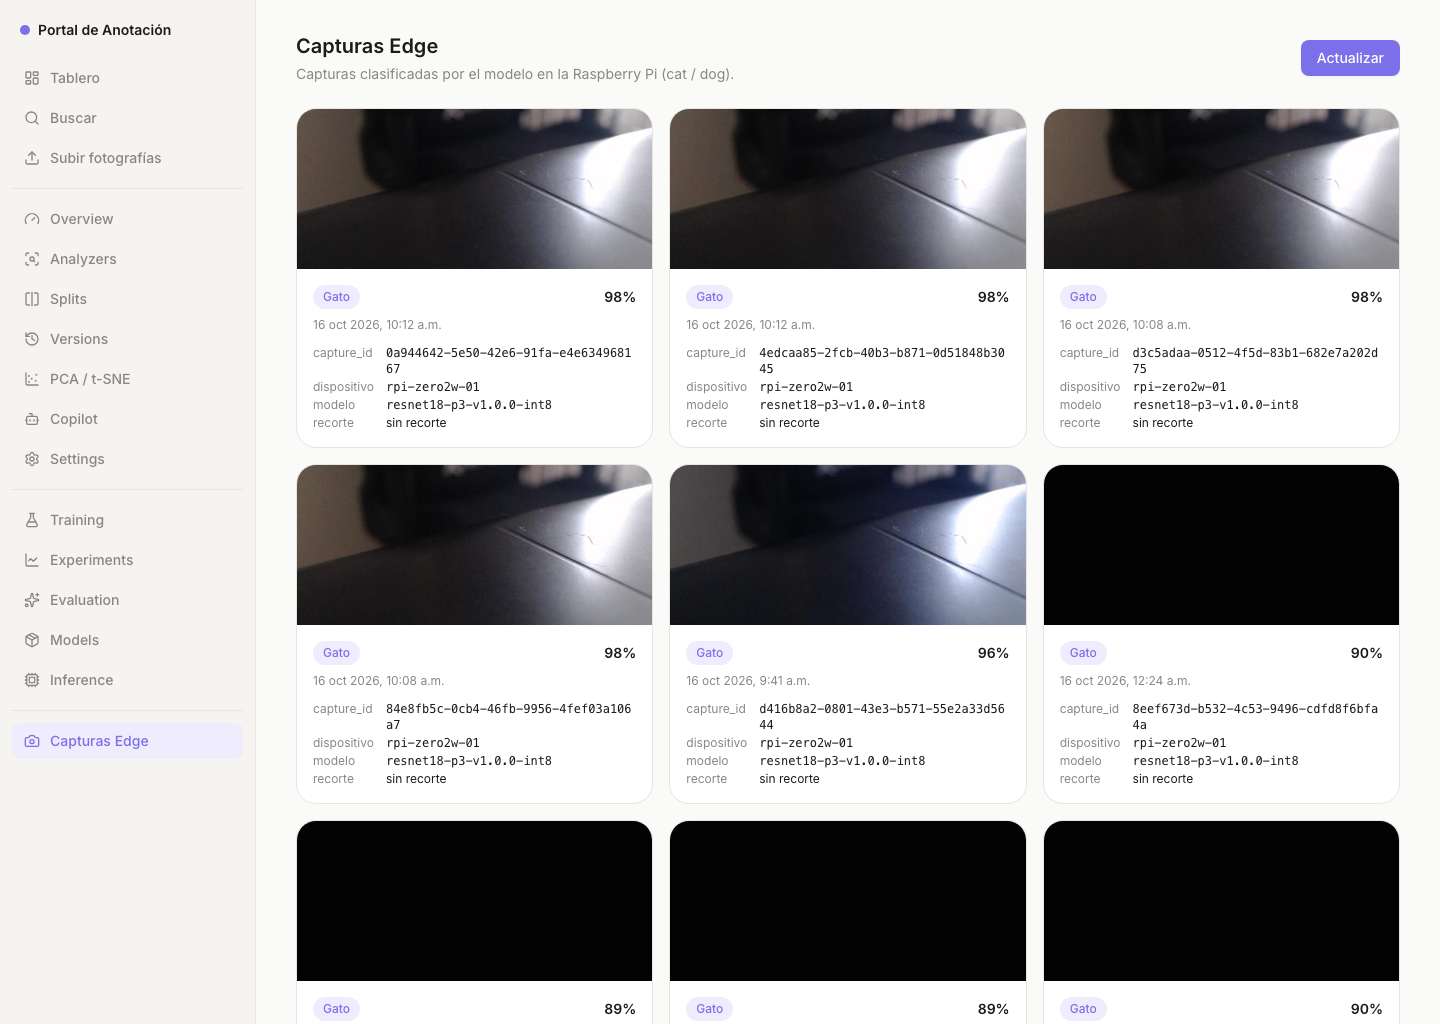
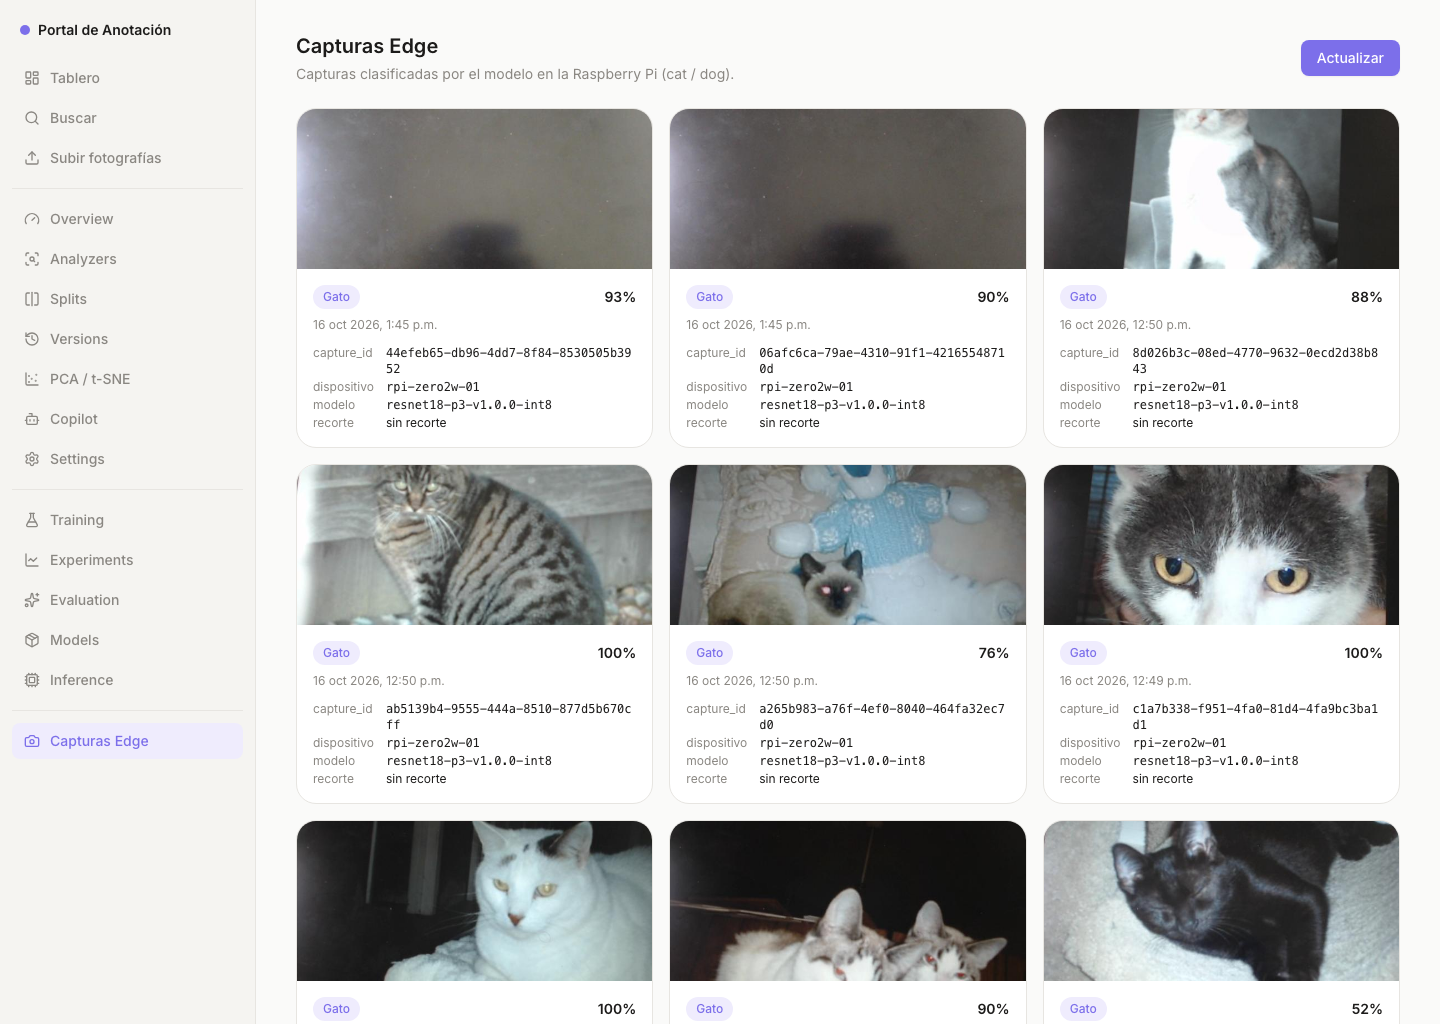
P4-15: cruce del portal con la evidencia oficial de AWS
Rehace la verificacion con la captura oficial 8d026b3c (reinicio): portal, GET /captures y evidencias/aws/eventos.json coinciden campo por campo. Capturas de pantalla nuevas y sin la captura obsoleta.

diff --git a/docs/p4/capturas-api-real.md b/docs/p4/capturas-api-real.md
@@ -5,31 +5,36 @@
 
 ## Cómo quedó conectada
 
-La sección «Capturas Edge» (PR #38) ya leía la URL desde `VITE_CAPTURES_API_URL`; el despliegue de AWS (infra #18, PR #36/#44) compila el frontend con:
+La sección «Capturas Edge» (PR #38) lee la URL desde `VITE_CAPTURES_API_URL`; el despliegue de AWS (infra #18, PR #36/#44) compila el frontend con:
 
 ```text
 VITE_CAPTURES_API_URL = https://el1c2mr69k.execute-api.us-east-2.amazonaws.com
 ```
 
-Ese valor queda inlinado en el bundle desplegado (`grep` del `index-*.js` lo confirma, y **no** contiene `sample.json`: en producción nunca hay datos de ejemplo). El CORS de `GET /captures` incluye el origen del portal (`http://3.133.248.228`).
+Ese valor queda inlinado en el bundle desplegado (el `grep` del `index-*.js` lo confirma y **no** contiene `sample.json`: en producción nunca hay datos de ejemplo). El CORS de `GET /captures` incluye el origen del portal (`http://3.133.248.228`).
 
-## Verificación contra AWS (16 oct 2026)
+## Verificación contra AWS — captura oficial `8d026b3c-08ed-4770-9632-0ecd2d38b843`
 
-La captura más reciente al momento de la evidencia, **`0a944642-5e50-42e6-91fa-e4e634968167`**, coincide en las tres vistas: lo que muestra el portal, lo que responde `GET /captures` y el ítem en DynamoDB (`GetItem` directo):
+La captura del reinicio coincide en las tres vistas independientes: lo que muestra el portal, lo que responde `GET /captures` y la **evidencia exportada de AWS** (`evidencias/aws/eventos.json`, del frente AWS #19):
 
-| Campo | Portal (captura de pantalla) | `GET /captures` | DynamoDB (`GetItem`) |
+| Campo | Portal (captura de pantalla) | `GET /captures` | Evidencia AWS (`eventos.json`) |
 |---|---|---|---|
-| `capture_id` | `0a944642-5e50-42e6-91fa-e4e634968167` | ✅ | ✅ |
+| `capture_id` | `8d026b3c-08ed-4770-9632-0ecd2d38b843` | ✅ | ✅ |
 | clase | Gato | `cat` | `cat` |
-| confianza | 98 % | `0.9765` | `0.9765` |
-| fecha | 16 oct, 10:12 a.m. | `2026-10-16T10:12:28.954059-06:00` | `captured_at` idéntico (UTC `16:12:28Z`) |
-| dispositivo | `rpi-zero2w-01` | ✅ | ✅ |
+| confianza | 88 % | `0.8809` | `0.8809` |
+| `captured_at` | 16 oct, 12:50 p.m. | `2026-10-16T12:50:29.216253-06:00` | ✅ (UTC `18:50:29.216Z`) |
+| `received_at` | — | `2026-10-16T18:50:29.983Z` | ✅ |
+| `device_id` | `rpi-zero2w-01` | ✅ | ✅ |
 | `model_version` | `resnet18-p3-v1.0.0-int8` | ✅ | ✅ |
 | `model_sha256` | — (en el contrato) | `58effa03…` (nuestro ONNX INT8, #7) | ✅ |
+| `crop` | «sin recorte» | `null` | columnas `crop_*` vacías |
+| imagen | (miniatura) | URL firmada de S3 | `image_in_s3: true`, `image_bytes: 18503`, `image_version_id: UMBbM1UDWiJW_NcTCHsYl1_wUjMTq7RA` |
+
+Los mismos valores están en `evidencias/aws/eventos.csv` (misma fila, primera del archivo).
 
 ## «Una captura nueva aparece al presionar Actualizar»
 
-El botón re-consulta `GET /captures`. Entre las **16:31 UTC** (consulta directa a DynamoDB: la más reciente era `8eef673d-…`, capturada 00:24) y las **16:45 UTC** (el API ya regresaba como más reciente `0a944642-…`, capturada 10:12), la Pi envió capturas nuevas y la sección las muestra al refrescar. Segunda vista a las 16:48 UTC (captura 2): mismo top — la Pi lleva quieta desde las 10:12, y la lista sigue sirviendo los datos reales más recientes.
+El botón re-consulta `GET /captures`. La captura oficial es de las **12:50**, y para las **13:45** la Pi ya había enviado nuevas (`06afc6ca-…` y `44efeb65-…`): al refrescar, el portal las muestra arriba y desplaza a la anterior — la lista refleja el estado real de AWS (56 eventos en la exportación). Orden siempre de la más reciente a la más antigua.
 
 ## Error de red con mensaje útil
 
@@ -37,8 +42,4 @@ En producción sin API configurada la sección muestra «API de capturas no conf
 
 ## Evidencia
 
-![Portal desplegado con capturas reales de la Pi](capturas-edge-real.png)
-
-Segunda vista tras «Actualizar»:
-
-![Segunda vista con datos reales](capturas-edge-real-2.png)
+![Portal desplegado con la captura oficial de la Pi](capturas-edge-real.png)
